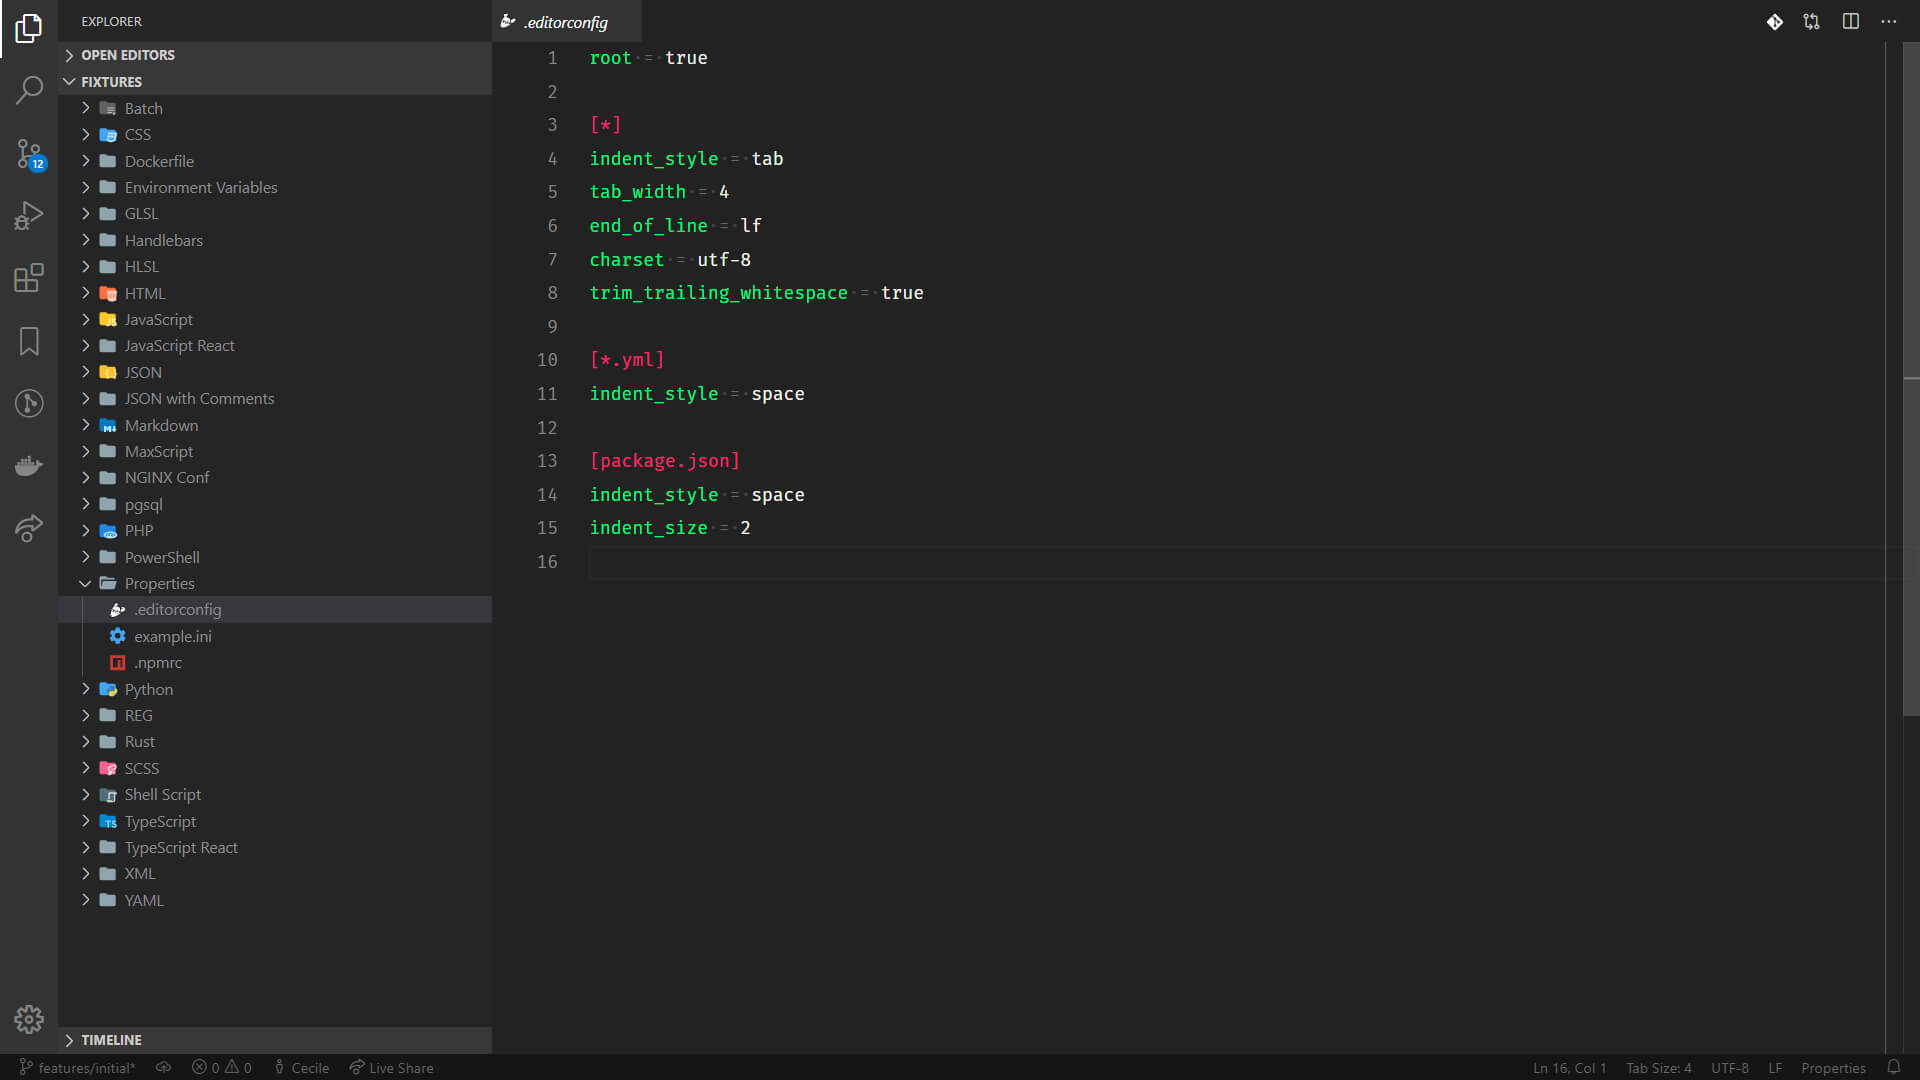
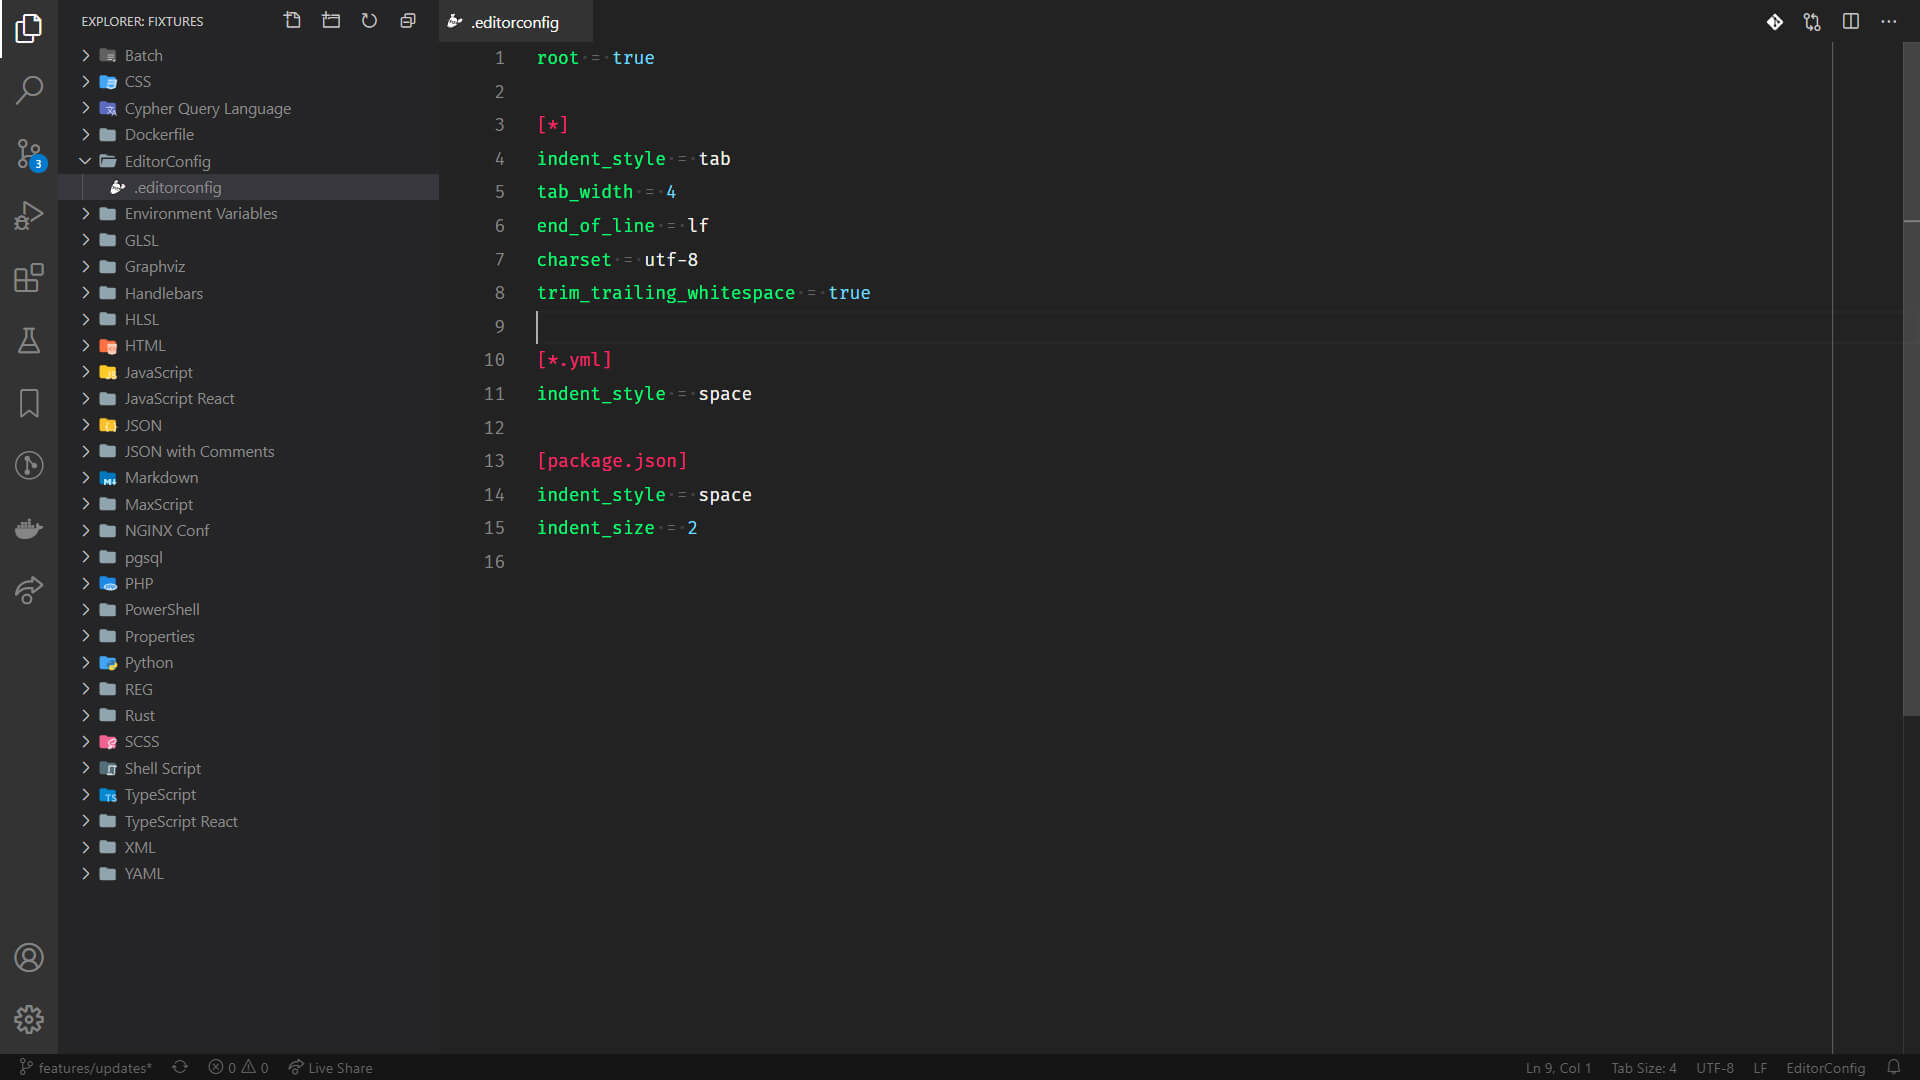
docs: update README & screenshots

diff --git a/README.md b/README.md
@@ -2,7 +2,7 @@
 
 ![Github Release](https://img.shields.io/github/v/release/wildpeaks/vscode-theme.svg?label=Release&logo=github&logoColor=eceff4&colorA=4c566a&colorB=11abfb)
 
-Dark theme for VSCode **focused on readability by reducing contrast of less important elements** (e.g. commas, semicolons, brackets).
+Dark theme for VSCode **focused on readability by reducing visibility of less important elements** (e.g. commas, semicolons, brackets).
 
 | Format  | Example screenshot |
 | ------------- | ------------- |
@@ -10,7 +10,8 @@ Dark theme for VSCode **focused on readability by reducing contrast of less impo
 | .css  | ![CSS](screenshots/CSS.jpg) |
 | .cypher  | ![CSS](screenshots/Cypher_Query_Language.jpg) |
 | Dockerfile  | ![Dockerfile](screenshots/Dockerfile.jpg) |
-| .editorConfig  | ![EditorConfig](screenshots/EditorConfig.jpg) |
+| .dot  | ![GraphViz](screenshots/GraphViz.jpg) |
+| .editorconfig  | ![EditorConfig](screenshots/EditorConfig.jpg) |
 | .env  | ![Environment_Variables](screenshots/Environment_Variables.jpg) |
 | .glsl  | ![GLSL](screenshots/GLSL.jpg) |
 | .hbs  | ![Handlebars](screenshots/Handlebars.jpg) |
@@ -53,3 +54,4 @@ Some file formats require additional extensions, such as:
  - `mrmlnc.vscode-scss`
  - `slevesque.shader`
  - `jakeboone02.cypher-query-language`
+ - `joaompinto.vscode-graphviz`
